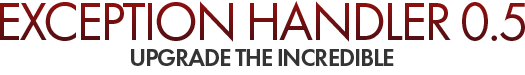
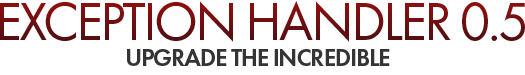
UpgradE
Former-commit-id: 260081e3a4853bb7c0e4169c1635e84c2c800e13
Former-commit-id: a8cd9edb81c14b91d4a32c60b0ae36be70522a37

Changed region(s): [[0.2438, 0.64, 0.7619, 0.88]]

diff --git a/README.md b/README.md
@@ -18,9 +18,8 @@
 
 ---
 
-<p align="center">
-  <br /><img src="/readme/05_title.png" width="450" />
-</p>
+
+<img src="/readme/05_title.png" width="450" align="center" />
 
 Customize your `404` and `500` error pages to be branded to your application in production:
 
@@ -56,7 +55,9 @@ Tapping directly into the data stored in `Rack` (`message`, `details`, `user age
 Rails exceptions are handled by the [**`ActiveDispatch::ShowExceptions`**](https://github.com/rails/rails/blob/4-0-stable/actionpack/lib/action_dispatch/middleware/show_exceptions.rb) middleware:
 
 
-**ExceptionHandler** uses this to route exceptions straight to our `exceptions` controller, providing you access to whatever you want.
+**ExceptionHandler** uses this to route exceptions straight to our `exceptions` controller, providing you access to all the request data. 
+
+The benefit of working with **ExceptionHandler** is to give you the ability to 
 
 ----------
 
